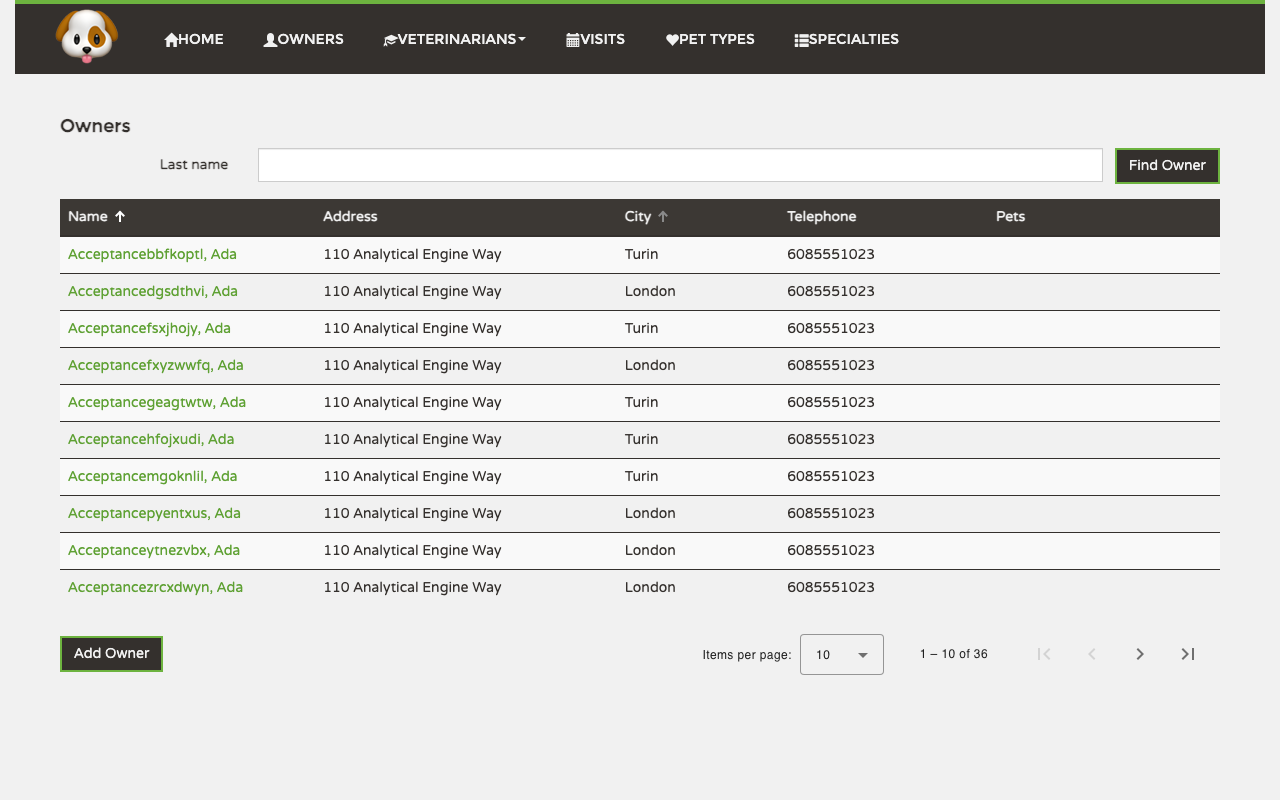
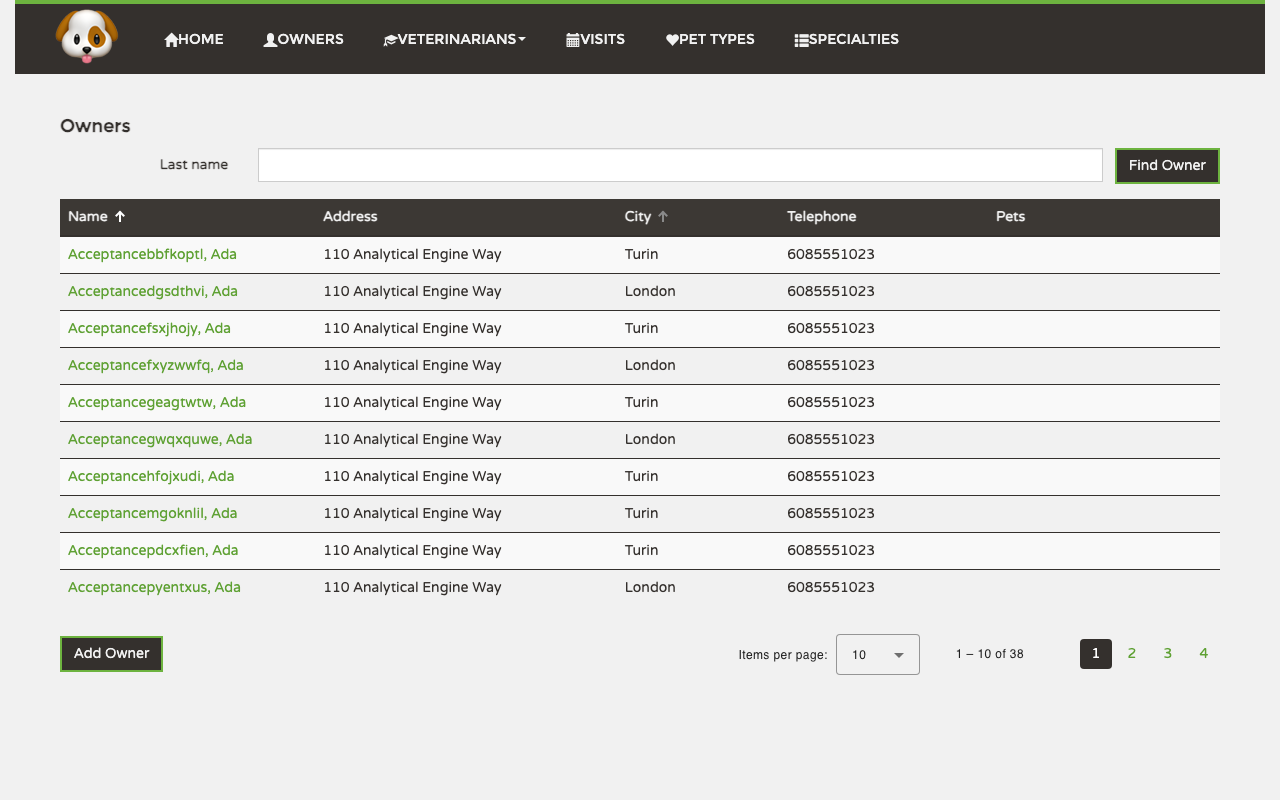
Owners grid: page numbers built for bisecting the list
Jacob wants to binary-search the sorted owners, so the previous/next arrows give
way to page numbers. On page c of N the grid offers 1, halfway back to 1, c-1,
c, c+1, halfway on to N, and N, with "…" over every gap. On page 5 of 80 that
is 1 … 3 4 5 6 … 43 … 80; on page 1 of 8 it is 1 2 … 5 … 8.

pageLinks() is a pure function with its own spec. The paginator keeps its
items-per-page select and range label, and only its arrow buttons are
hidden. The e2e "next page" step clicks page 2. The proposal, spec, tasks and
user manual follow.

diff --git a/petclinic-frontend/src/app/owners/owner-list/owner-list.component.spec.ts b/petclinic-frontend/src/app/owners/owner-list/owner-list.component.spec.ts
@@ -81,11 +81,21 @@ describe('OwnerListComponent', () => {
     expect(sortable.map(header => header.nativeElement.textContent.trim())).toEqual(['Name', 'City']);
   });
 
-  it('offers to jump to the first and the last page', () => {
-    open();
+  it('offers page numbers to bisect the list, marking the current one', () => {
+    open({size: '5'});
 
-    const buttons = fixture.debugElement.queryAll(By.css('mat-paginator button')).map(b => b.attributes['aria-label']);
-    expect(buttons).toEqual(['First page', 'Previous page', 'Next page', 'Last page']);
+    const links = fixture.debugElement.queryAll(By.css('.owner-pages > *'));
+    expect(links.map(link => link.nativeElement.textContent.trim())).toEqual(['1', '2', '…', '4', '…', '6']);
+    expect(fixture.debugElement.query(By.css('[aria-current=page]')).nativeElement.textContent.trim()).toBe('1');
+  });
+
+  it('opens the page whose number is clicked', () => {
+    open({size: '5', sort: 'city'});
+
+    const buttons = fixture.debugElement.queryAll(By.css('.owner-pages button'));
+    buttons.find(button => button.nativeElement.textContent.trim() === '4').nativeElement.click();
+
+    expect(queryNavigatedTo()).toEqual({page: 3, size: 5, sort: 'city'});
   });
 
   it('moves to the next page keeping the sort, size and search', () => {

diff --git a/petclinic-frontend/src/app/owners/owner-list/owner-list.component.ts b/petclinic-frontend/src/app/owners/owner-list/owner-list.component.ts
@@ -6,6 +6,7 @@ import {EMPTY, Subscription} from 'rxjs';
 import {catchError, map, switchMap, tap} from 'rxjs/operators';
 import {OwnerService} from '../owner.service';
 import {OwnerPage, OwnerQuery} from '../owner-page';
+import {PageLink, pageLinks} from './page-links';
 
 const DEFAULT_SIZE = 10;
 const DEFAULT_SORT = 'name';
@@ -52,6 +53,11 @@ export class OwnerListComponent implements OnInit, OnDestroy {
     return this.query.size ?? DEFAULT_SIZE;
   }
 
+  get pageLinks(): PageLink[] {
+    const lastPage = Math.max(1, Math.ceil(this.page.totalElements / this.pageSize));
+    return pageLinks(this.pageIndex + 1, lastPage);
+  }
+
   get sortField(): string {
     return (this.query.sort ?? DEFAULT_SORT).split(',')[0];
   }
@@ -76,6 +82,12 @@ export class OwnerListComponent implements OnInit, OnDestroy {
       this.navigate({...this.query, page: undefined, size});
     } else {
       this.navigate({...this.query, page: event.pageIndex || undefined});
+    }
+  }
+
+  goToPage(link: PageLink) {
+    if (link !== '…') {
+      this.navigate({...this.query, page: link - 1 || undefined});
     }
   }
 

diff --git a/petclinic-frontend/src/app/owners/owner-list/owner-list.component.html b/petclinic-frontend/src/app/owners/owner-list/owner-list.component.html
@@ -52,9 +52,15 @@
     <div class="owners-controls" *ngIf="page">
       <button class="btn btn-default" id="addOwner" (click)="addOwner()">Add Owner</button>
       <mat-paginator *ngIf="page.content.length" [length]="page.totalElements" [pageIndex]="pageIndex"
-                      [pageSize]="pageSize" [pageSizeOptions]="pageSizes" showFirstLastButtons
-                      (page)="changePage($event)">
+                      [pageSize]="pageSize" [pageSizeOptions]="pageSizes" (page)="changePage($event)">
       </mat-paginator>
+      <nav class="owner-pages" aria-label="Pages" *ngIf="page.content.length">
+        <ng-container *ngFor="let link of pageLinks">
+          <span *ngIf="link === '…'" class="owner-pages-gap">…</span>
+          <button *ngIf="link !== '…'" type="button" class="btn btn-link" (click)="goToPage(link)"
+                  [attr.aria-current]="link === pageIndex + 1 ? 'page' : null">{{ link }}</button>
+        </ng-container>
+      </nav>
     </div>
   </div>
 </div>

diff --git a/petclinic-frontend/src/app/owners/owner-list/page-links.ts b/petclinic-frontend/src/app/owners/owner-list/page-links.ts
@@ -1,0 +1,21 @@
+export type PageLink = number | '…';
+
+/**
+ * The 1-based pages to offer from `current`: the ends, the neighbours, and the pages halfway
+ * to either end, so a user can bisect a long sorted list; '…' marks every gap.
+ */
+export function pageLinks(current: number, last: number): PageLink[] {
+  const halfwayBack = Math.floor((1 + current) / 2);
+  const halfwayOn = Math.ceil((current + 1 + last) / 2);
+  const pages = [1, halfwayBack, current - 1, current, current + 1, halfwayOn, last]
+    .filter((page, i, all) => page >= 1 && page <= last && all.indexOf(page) === i)
+    .sort((a, b) => a - b);
+  const links: PageLink[] = [];
+  pages.forEach((page, i) => {
+    if (i > 0 && page - pages[i - 1] > 1) {
+      links.push('…');
+    }
+    links.push(page);
+  });
+  return links;
+}

diff --git a/petclinic-frontend/src/app/owners/owner-list/page-links.spec.ts b/petclinic-frontend/src/app/owners/owner-list/page-links.spec.ts
@@ -1,0 +1,23 @@
+import {pageLinks} from './page-links';
+
+describe('pageLinks', () => {
+  it('shows the only page there is', () => {
+    expect(pageLinks(1, 1)).toEqual([1]);
+  });
+
+  it('from the first page: the next one, halfway to the end, and the end', () => {
+    expect(pageLinks(1, 8)).toEqual([1, 2, '…', 5, '…', 8]);
+  });
+
+  it('halves both ways around the current page', () => {
+    expect(pageLinks(5, 80)).toEqual([1, '…', 3, 4, 5, 6, '…', 43, '…', 80]);
+  });
+
+  it('from the last page: halfway back, the previous one, and the end', () => {
+    expect(pageLinks(8, 8)).toEqual([1, '…', 4, '…', 7, 8]);
+  });
+
+  it('leaves no gap where the pages already touch', () => {
+    expect(pageLinks(3, 5)).toEqual([1, 2, 3, 4, 5]);
+  });
+});

diff --git a/petclinic-frontend/src/app/owners/owner-list/owner-list.component.css b/petclinic-frontend/src/app/owners/owner-list/owner-list.component.css
@@ -74,6 +74,34 @@ display:none;
 
 .owners-controls mat-paginator {
   background: transparent;
+  margin-left: auto;
+}
+
+/* the page numbers below replace the paginator's previous/next arrows */
+:host ::ng-deep .owners-controls .mat-mdc-paginator-range-actions button {
+  display: none;
+}
+
+.owner-pages {
+  display: flex;
+  align-items: center;
+  gap: 4px;
+}
+
+.owner-pages button {
+  min-width: 32px;
+  padding: 4px 8px;
+}
+
+.owner-pages button[aria-current=page] {
+  background: #34302d;
+  color: #fff;
+  border-radius: 4px;
+}
+
+.owner-pages-gap {
+  padding: 0 4px;
+  color: #8a8a8a;
 }
 
 .owners-pagination {

diff --git a/petclinic-test/src/owners-grid.feature.glue.ts b/petclinic-test/src/owners-grid.feature.glue.ts
@@ -36,7 +36,7 @@ When('I show {int} owners per page', async function (this: PlaywrightWorld, size
 });
 
 When('I go to the next page', async function (this: PlaywrightWorld) {
-  await this.page.getByRole('button', {name: 'Next page'}).click();
+  await this.page.locator('.owner-pages').getByRole('button', {name: '2', exact: true}).click();
   await this.page.waitForURL(/[?&]page=1\b/);
 });
 

diff --git a/user-manual/manual.md b/user-manual/manual.md
@@ -43,7 +43,7 @@ The Owners area is where you keep records for the people who bring pets to the c
 
 ![](screenshots/owners-list.png)
 
-The list shows the registered owners a page at a time, 10 per page, sorted by last name. Names are written last name first, as in *Liddell, Alice*. Each row includes the address, city, telephone, and the names of the pets associated with that owner. Below the table, choose *Items per page* (5, 10 or 20) and use the arrows to move to the next or previous page, or jump to the first or last one; the total number of owners is shown next to them. The *Name* and *City* column titles carry a small arrow: click one to sort by it, and click it again to reverse the order. The arrow of the column the list is sorted by is shown in white. Above the table is a *Last name* search box — type a last name (or any prefix) and click *Find Owner*, next to it, to narrow the list to matching owners. Click an owner's name in the *Name* column to open their full record; *Back* brings you to the same page and order you left. The *Add Owner* button next to the page arrows opens the new-owner form.
+The list shows the registered owners a page at a time, 10 per page, sorted by last name. Names are written last name first, as in *Liddell, Alice*. Each row includes the address, city, telephone, and the names of the pets associated with that owner. Below the table, choose *Items per page* (5, 10 or 20) and click a page number to open that page. Besides the first, the last and the pages next to yours, the list offers the page halfway back to the start and the page halfway on to the end, so you can home in on an owner by halving the distance each time; the total number of owners is shown next to them. The *Name* and *City* column titles carry a small arrow: click one to sort by it, and click it again to reverse the order. The arrow of the column the list is sorted by is shown in white. Above the table is a *Last name* search box — type a last name (or any prefix) and click *Find Owner*, next to it, to narrow the list to matching owners. Click an owner's name in the *Name* column to open their full record; *Back* brings you to the same page and order you left. The *Add Owner* button next to the page arrows opens the new-owner form.
 
 ### Creating a new owner
 

diff --git a/openspec/changes/paginate-owners-grid/proposal.md b/openspec/changes/paginate-owners-grid/proposal.md
@@ -11,6 +11,10 @@ order the user can choose.
 
 - **Pages.** Owners are shown 10 at a time, and the user can switch to 5 or 20 per page. The screen
   shows how many owners there are in total.
+- **Page numbers built for halving.** Instead of previous/next arrows, the screen offers the first and
+  last page, the pages next to the current one, and the pages halfway back to the start and halfway on
+  to the end. On page 5 of 80 that is 1 … 3 4 5 6 … 43 … 80, so the user can home in on an owner the way
+  one looks up a word in a dictionary.
 - **Sorting by Name or City.** Clicking the column title sorts by it; clicking again reverses the
   order.
   - Names are shown surname first, as in "Liddell, Alice", and sort that way: by surname, then

diff --git a/openspec/changes/paginate-owners-grid/specs/owner-listing/spec.md b/openspec/changes/paginate-owners-grid/specs/owner-listing/spec.md
@@ -96,9 +96,10 @@ ascending, then descending, with no unsorted state.
 - **WHEN** the user moves to the next page of the grid
 - **THEN** the next owners in the current order are shown
 
-#### Scenario: Jumping to the last page
-- **WHEN** the user clicks the last-page button
-- **THEN** the last owners in the current order are shown
+#### Scenario: Page numbers to bisect the list
+- **WHEN** the user is on page 5 of 80
+- **THEN** the grid offers pages 1, 3, 4, 5, 6, 43 and 80, with a gap mark between pages that do not touch
+- **AND** clicking a page number shows that page
 
 #### Scenario: Only Name and City are sortable
 - **WHEN** the user views the grid headers

diff --git a/openspec/changes/paginate-owners-grid/tasks.md b/openspec/changes/paginate-owners-grid/tasks.md
@@ -105,5 +105,6 @@
 - [x] 6.5 Fix the column widths, always show the sort arrows (the active one in white), and put
   Find Owner at the right end of the Last name row.
   - Verify: the new `owners-grid.feature` scenarios for column positions and arrows pass.
-- [x] 6.6 Add first-page and last-page buttons to the paginator.
-  - Verify: the Karma case for the paginator buttons passes.
+- [x] 6.6 Replace the previous/next arrows with page numbers for bisecting: 1, halfway back, the
+  neighbours, halfway on, and the last page, with "…" over gaps (`page-links.ts`).
+  - Verify: `page-links.spec.ts` is red first, then green; the component spec clicks a page number.
